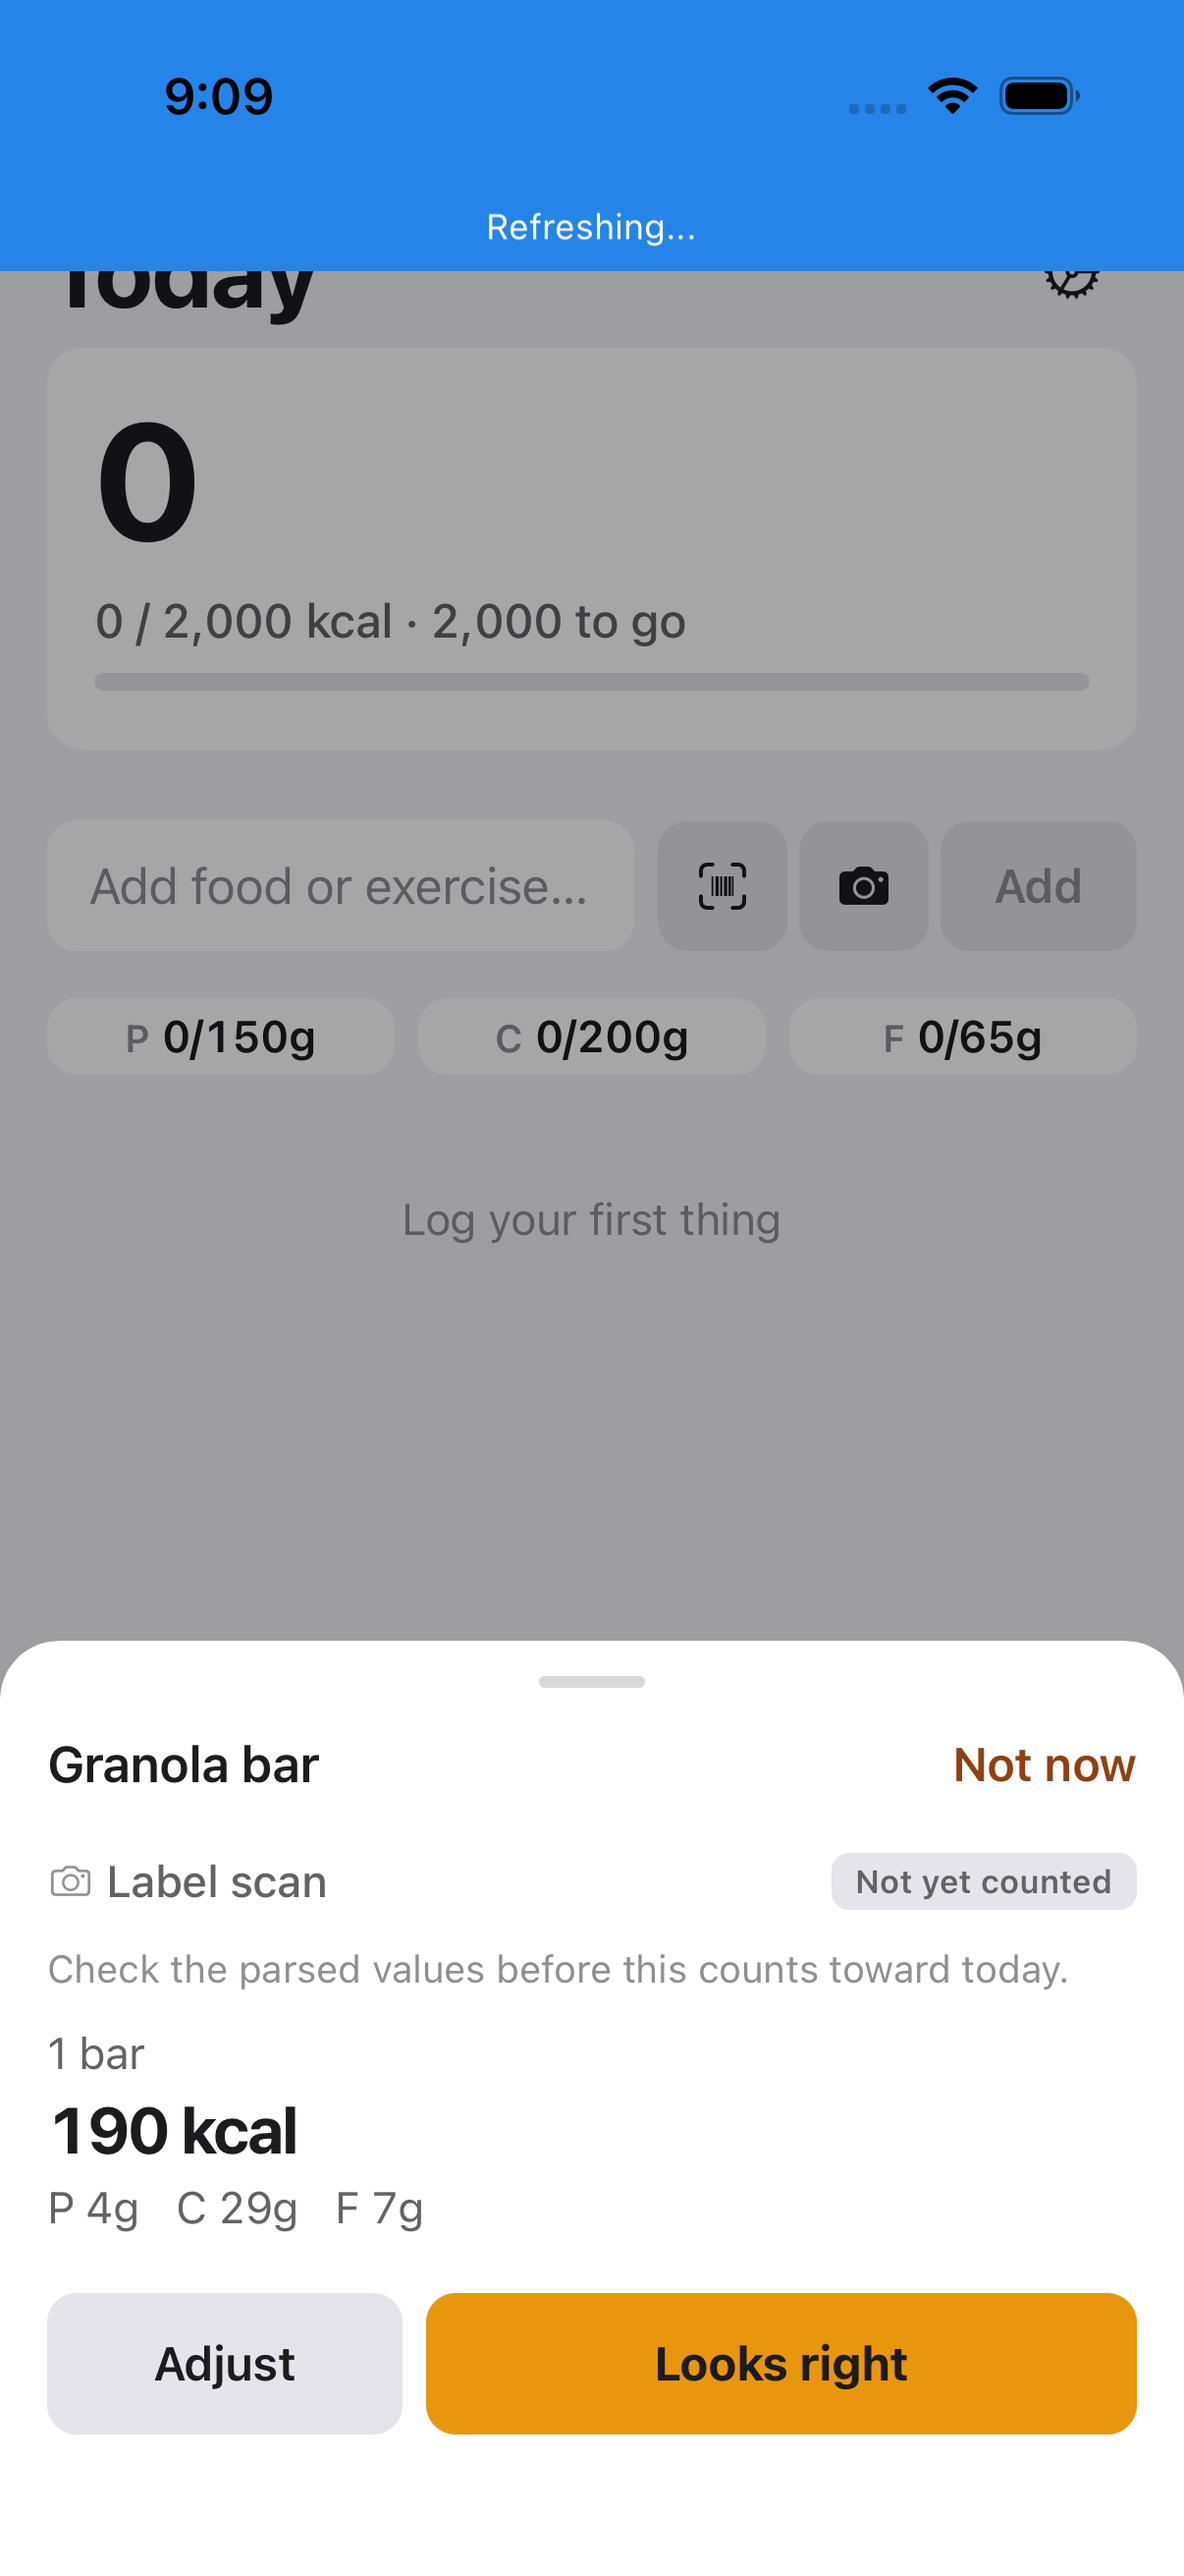
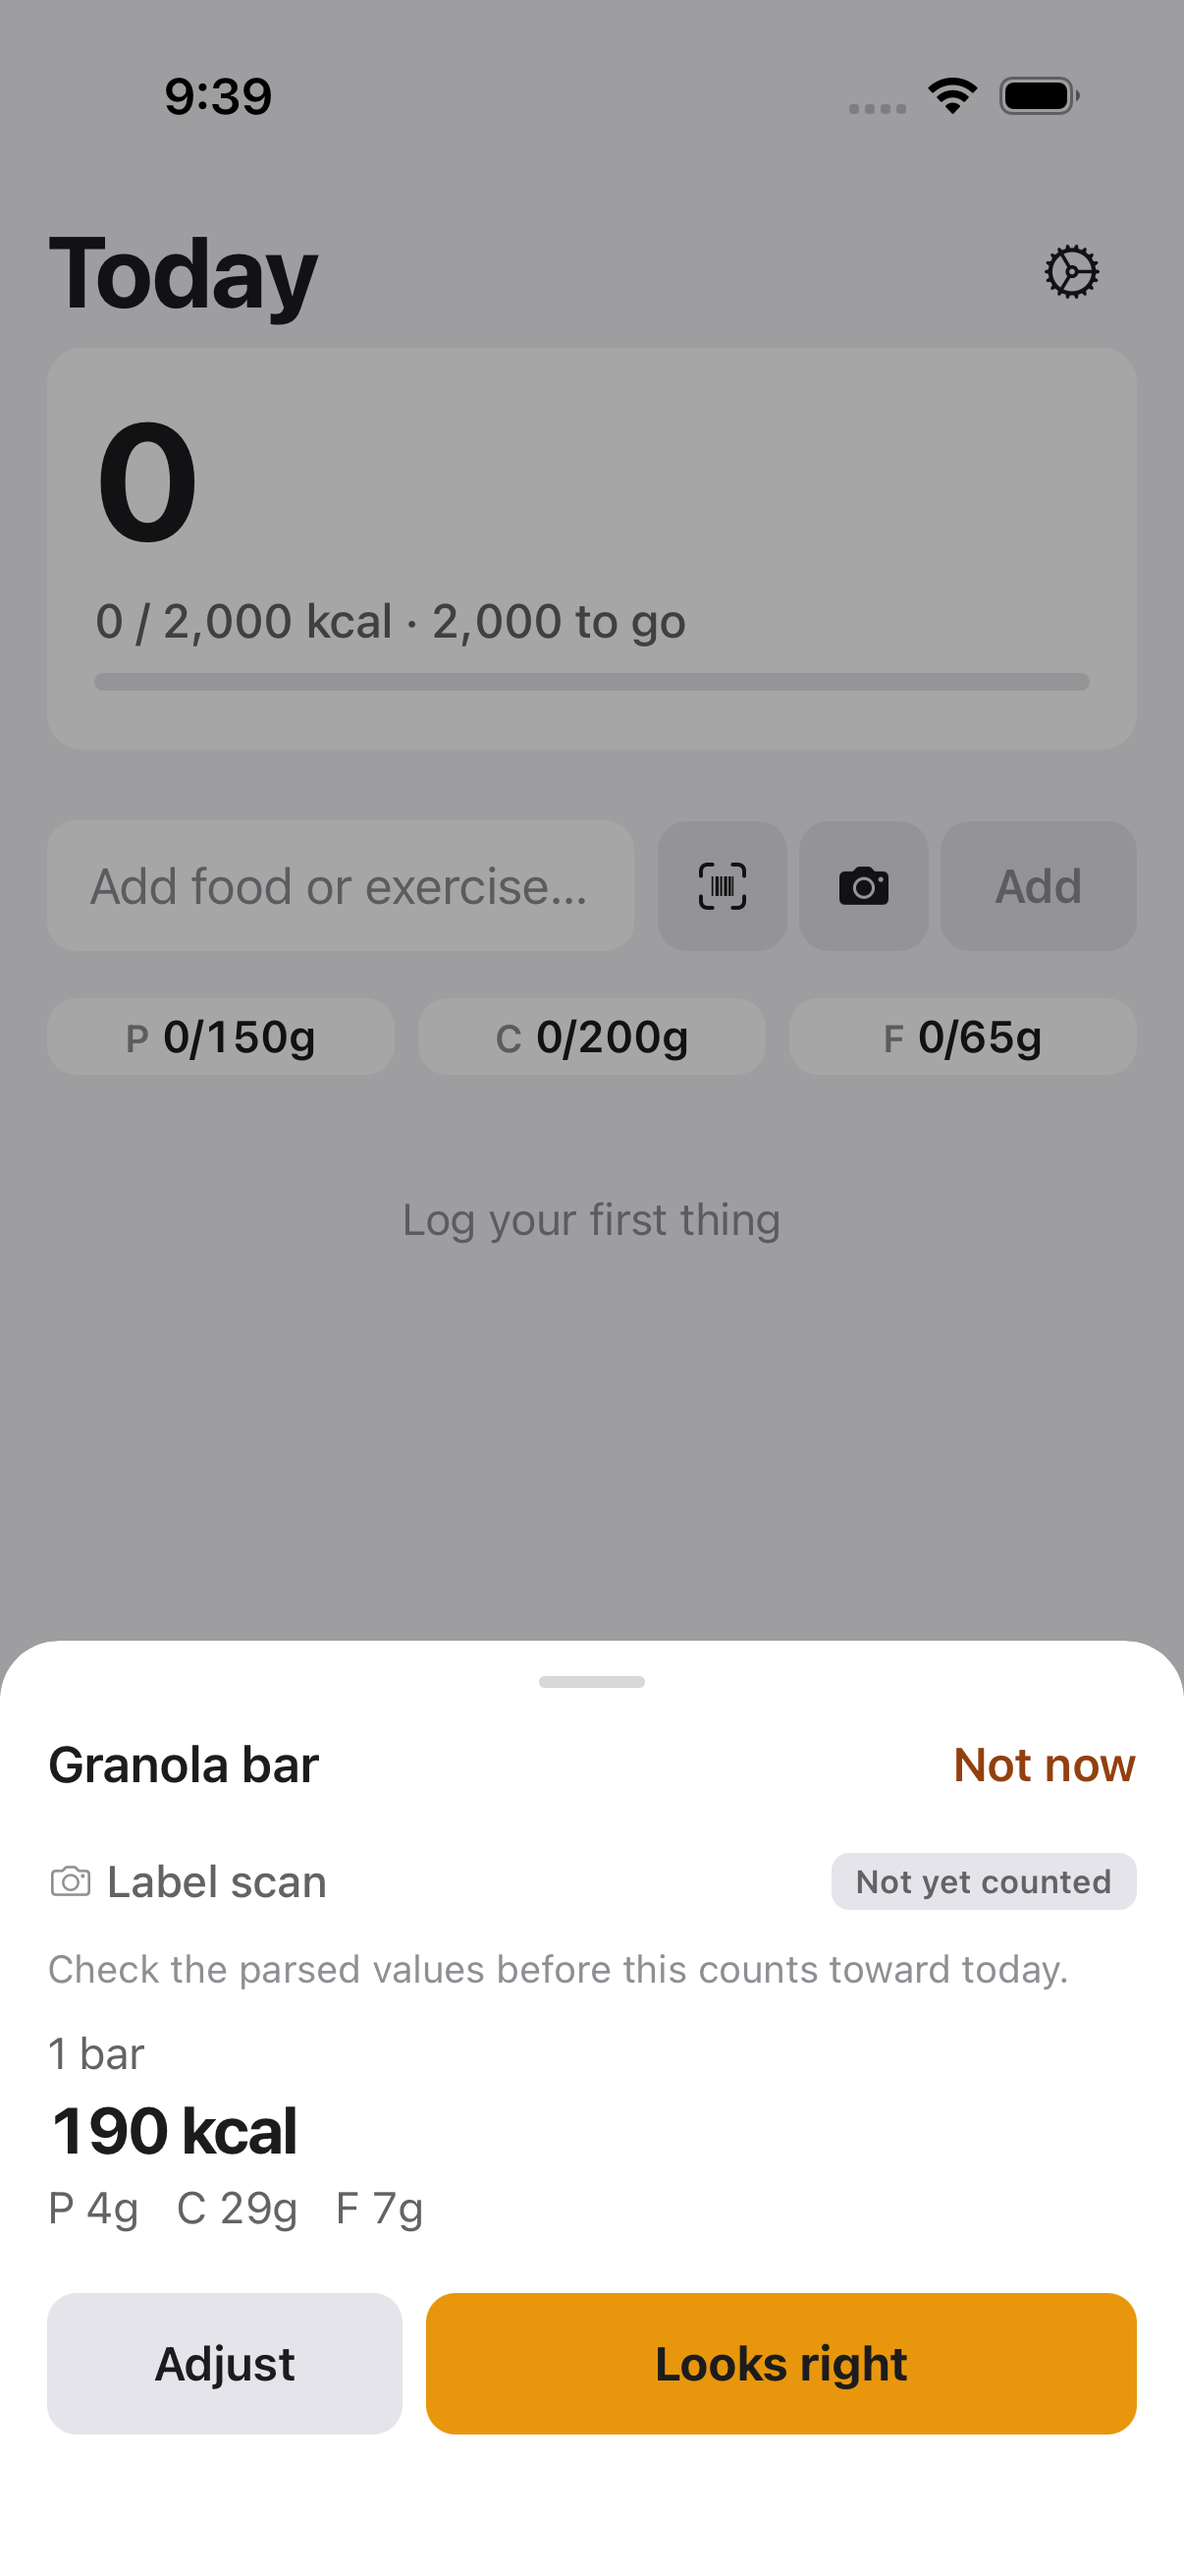
FTY-262: gate confirm-parsed settled marker on network-quiet settle
The today.confirm_parsed settled marker was emitted the instant the
ConfirmParsedValuesSheet modal mounted, bypassing FTY-247's route +
network-quiet settle contract, so screenshot automation could capture a
mid-load frame (the committed screenshot showed a transient dev
"Refreshing…" overlay).

Add useConfirmParsedSettledMarker in the Today-owned
visualReviewConfirmParsed.ts: it reuses (never forks) FTY-247's shared
QUIET_MS window and fetch-tick channel, so the in-modal marker only
appears once the sub-state has gone network-quiet — exactly like
VisualReviewSettleOverlay. The route half of the contract is satisfied
structurally (the marker lives inside the sheet, which only opens on the
mounted Today screen at "/"), keeping the gate router-free so it never
perturbs the default Today render or its tests. useLabelProposal feeds
the gated value through unchanged plumbing.

Strengthen the seam test to assert the marker is absent before QUIET_MS
and present after, and re-capture the simulator evidence: the new
docs/verification/FTY-262/today-confirm-parsed-light.png shows the fully
settled Granola-bar confirm sheet over a loaded empty Today with no
"Refreshing…" overlay.

No shared visual-review registry/manifest file touched (read-only
imports only); no ConfirmParsedValuesSheet change this round.

Changed region(s): [[0.0, 0.0, 1.0, 0.1236]]

diff --git a/mobile/components/today/visualReviewConfirmParsed.ts b/mobile/components/today/visualReviewConfirmParsed.ts
@@ -18,12 +18,20 @@
  * All fixture data is synthetic — no real user, body, or nutrition data.
  */
 
+import { useEffect, useState } from "react";
+
 import type { DailySummaryDTO } from "@/api/dailySummary";
 import type { DerivedFoodItemDTO } from "@/api/derivedItems";
 import {
   registerVisualReviewPreset,
   type VisualReviewFetchContext,
 } from "@/e2e/visualReview";
+// The FTY-247 network-quiet settle window + fetch-tick channel, reused (never
+// forked) so this Today-owned marker settles on exactly the same contract as the
+// shared VisualReviewSettleOverlay. Imported directly from their modules — these
+// are read-only imports; the shared registry/manifest are not touched.
+import { useVisualReviewFetchTick } from "@/e2e/visualReview/hooks";
+import { QUIET_MS } from "@/e2e/visualReview/VisualReviewSettleOverlay";
 
 /** The deep-link preset name: `fatty://__visual-review?preset=today.confirm_parsed`. */
 export const CONFIRM_PARSED_PRESET_NAME = "today.confirm_parsed";
@@ -98,3 +106,47 @@ registerVisualReviewPreset({
     { match: get("/daily-summary"), body: CONFIRM_PARSED_SUMMARY },
   ],
 });
+
+/**
+ * The `visual-review-settled:today.confirm_parsed` testID to render inside the
+ * confirm sheet's own modal, or `null` until it settles / when the preset is not
+ * active (FTY-262).
+ *
+ * The marker is gated on FTY-247's **network-quiet settle contract**, not on the
+ * modal simply mounting: it appears only once `QUIET_MS` has elapsed with no new
+ * mock request (each request bumps the shared fetch tick and restarts the
+ * window). This is the same condition {@link VisualReviewSettleOverlay} applies,
+ * reused rather than forked, so screenshot automation captures the loaded,
+ * data-settled sub-state — never the Today data-load / dev "Refreshing…" frame
+ * the earlier immediate marker let through.
+ *
+ * The route half of that contract ("the target screen is on top") is satisfied
+ * structurally, not by `usePathname()`: this marker lives *inside* the confirm
+ * sheet, which `useLabelProposal` only opens while the Today screen (`route: "/",
+ * settledPath: "/"`) is mounted — there is no navigation away from it while the
+ * sub-state is up, so it is inherently on the settled path. Keeping the gate to
+ * the network-quiet timer also keeps it router-free, so it never perturbs the
+ * default Today render or its tests.
+ *
+ * `active` is the caller's `isE2EMode() && preset === today.confirm_parsed`
+ * guard; when it is false the effect installs no timer and this returns `null`,
+ * so the hook is inert on every real launch and in release builds.
+ */
+export function useConfirmParsedSettledMarker(active: boolean): string | null {
+  const fetchTick = useVisualReviewFetchTick();
+  const [settled, setSettled] = useState(false);
+
+  useEffect(() => {
+    if (!active) return;
+    // Arm (and, on each new mock request, re-arm) the network-quiet window. The
+    // marker only becomes visible when this fires with no newer request having
+    // cleared the timer — mirroring VisualReviewSettleOverlay's first-appearance
+    // gate. setState happens only in the async callback, never synchronously.
+    const timer = setTimeout(() => setSettled(true), QUIET_MS);
+    return () => clearTimeout(timer);
+  }, [active, fetchTick]);
+
+  return active && settled
+    ? `visual-review-settled:${CONFIRM_PARSED_PRESET_NAME}`
+    : null;
+}

diff --git a/mobile/components/today/useLabelProposal.ts b/mobile/components/today/useLabelProposal.ts
@@ -18,6 +18,7 @@ import { sortByNewest } from "@/state/today";
 import {
   CONFIRM_PARSED_ITEM,
   CONFIRM_PARSED_PRESET_NAME,
+  useConfirmParsedSettledMarker,
 } from "./visualReviewConfirmParsed";
 
 /**
@@ -72,17 +73,20 @@ export function useLabelProposal({
   );
 
   // The settled-marker testID for the confirm-parsed preset (FTY-262), or `null`
-  // when it is not the active preset. The shared `VisualReviewSettleOverlay`
-  // (FTY-247) renders its marker in the navigator's own window, but the confirm
-  // sheet is a `<Modal accessibilityViewIsModal>` — iOS accessibility restricts
-  // the reachable tree to the modal's own subtree while one is presented, so the
+  // when it is not the active preset OR the sub-state has not gone network-quiet
+  // yet. The shared `VisualReviewSettleOverlay` (FTY-247) renders its marker in
+  // the navigator's own window, but the confirm sheet is a
+  // `<Modal accessibilityViewIsModal>` — iOS accessibility restricts the
+  // reachable tree to the modal's own subtree while one is presented, so the
   // shared marker is unreachable to Maestro for the whole time this sub-state is
-  // up. The sheet renders this marker itself, inside its own modal, using the
-  // exact same `visual-review-settled:<preset>` convention so screenshot
-  // automation waits on it identically to every other preset.
-  const labelProposalSettledMarker = confirmParsedPresetActive
-    ? `visual-review-settled:${CONFIRM_PARSED_PRESET_NAME}`
-    : null;
+  // up. The sheet renders this marker itself, inside its own modal, under the
+  // exact same `visual-review-settled:<preset>` convention AND the same
+  // network-quiet settle gate (see `useConfirmParsedSettledMarker`), so
+  // screenshot automation waits for the loaded, settled frame — not the mid-load
+  // one — identically to every other preset.
+  const labelProposalSettledMarker = useConfirmParsedSettledMarker(
+    confirmParsedPresetActive,
+  );
 
   // Label capture upload (FTY-064 + FTY-196/197). The backend created and
   // extracted the event in-request; add the returned event to the timeline, then

diff --git a/mobile/components/today/visualReviewConfirmParsed.test.tsx b/mobile/components/today/visualReviewConfirmParsed.test.tsx
@@ -21,6 +21,7 @@ import {
   __deactivateVisualReview,
 } from "@/e2e/visualReview/session";
 import { getVisualReviewPreset } from "@/e2e/visualReview";
+import { QUIET_MS } from "@/e2e/visualReview/VisualReviewSettleOverlay";
 
 import { CONFIRM_PARSED_PRESET_NAME } from "./visualReviewConfirmParsed";
 import {
@@ -117,14 +118,22 @@ describe("today.confirm_parsed visual-review preset", () => {
     expect(textContent(tree)).toContain("Granola bar");
     expect(hasA11yLabel(tree, "Looks right, add it")).toBe(true);
 
-    // The settled marker renders inside the sheet's own modal (FTY-262): the
-    // modal's accessibilityViewIsModal makes the shared navigator-level
-    // VisualReviewSettleOverlay unreachable while it is presented, so
-    // screenshot automation waits on this local marker instead, under the
-    // exact same `visual-review-settled:<preset>` convention.
-    expect(
-      hasA11yLabel(tree, `visual-review-settled:${CONFIRM_PARSED_PRESET_NAME}`),
-    ).toBe(true);
+    const marker = `visual-review-settled:${CONFIRM_PARSED_PRESET_NAME}`;
+
+    // FTY-262 fix: the settled marker respects FTY-247's network-quiet settle
+    // contract — it is NOT emitted on the mid-load frame (the sheet merely
+    // mounting), so screenshot automation cannot capture a mid-load/"Refreshing…"
+    // frame. It stays absent until the QUIET_MS window elapses.
+    expect(hasA11yLabel(tree, marker)).toBe(false);
+
+    // Once the network goes quiet the sheet exposes the marker inside its own
+    // modal (accessibilityViewIsModal hides the shared navigator-level
+    // VisualReviewSettleOverlay while it is presented), under the exact same
+    // `visual-review-settled:<preset>` convention Maestro waits on.
+    await act(async () => {
+      await new Promise((resolve) => setTimeout(resolve, QUIET_MS + 50));
+    });
+    expect(hasA11yLabel(tree, marker)).toBe(true);
   });
 
   it("is inert outside isE2EMode() even if the runtime preset were somehow already active", async () => {

diff --git a/docs/verification/FTY-262/README.md b/docs/verification/FTY-262/README.md
@@ -34,6 +34,16 @@ FTY-247 ships, extended in this story with the `today.confirm_parsed` step.
   subtree instead, so screenshot automation waits on it exactly like every other
   preset. Any future Modal-based sub-state seam (FTY-263..268) will need the same
   pattern if its sheet also sets `accessibilityViewIsModal`.
+- The marker honours FTY-247's **network-quiet settle contract**, not merely the
+  modal mounting: `useConfirmParsedSettledMarker` (in
+  `components/today/visualReviewConfirmParsed.ts`) reuses the shared `QUIET_MS`
+  window and fetch-tick channel, so the marker only appears once the Today
+  data-load behind the sheet has gone quiet. That is why the committed
+  `today-confirm-parsed-light.png` captures a fully-settled frame — the parsed
+  "Granola bar" card over a loaded, empty Today — with **no dev "Refreshing…"
+  overlay** and no mid-load state. (An earlier revision exposed the marker the
+  instant the modal rendered, which let the screenshot catch a transient
+  "Refreshing…" frame; gating on network-quiet is the fix.)
 - `assertVisible: id: today-screen` — the assertion the other Today presets use
   — is intentionally **not** used for this preset: the underlying Today screen is
   correctly unreachable to accessibility while the modal is up, so the flow
